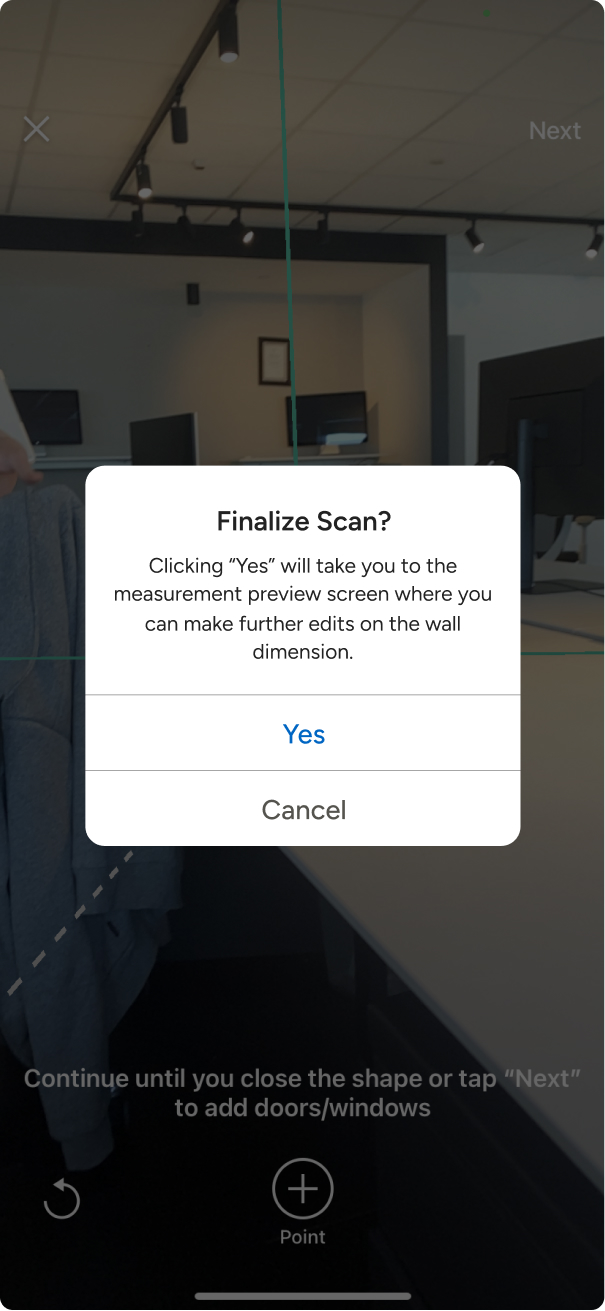
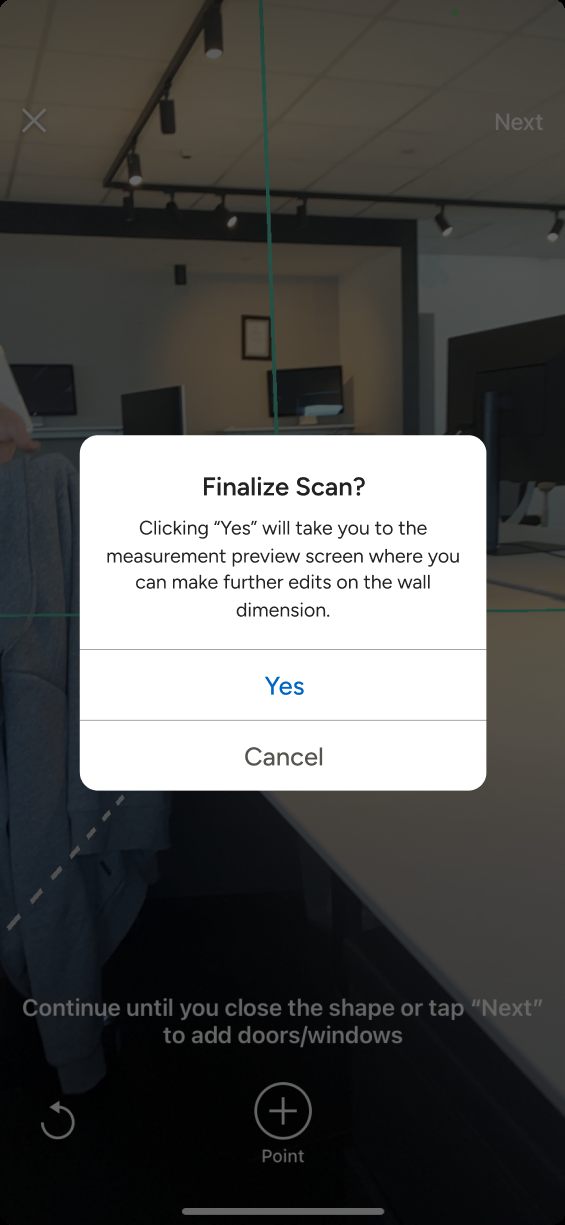
Use the Finalize Scan.png export

diff --git a/work/multi-room-mobile-scan.html b/work/multi-room-mobile-scan.html
@@ -565,7 +565,7 @@
     <p>While room placement was unreliable, our first approach used dialogs to guide every transition: finish the room, choose what came next, and save the plan. Each decision was clear, but the room-to-room flow became slow and fragmented.</p>
     <div class="mrx-dialogs">
       <figure><img src="../media/multi-room/feature-intro.png" alt="Onboarding card explaining back-to-back room scanning" width="375" height="812"><figcaption class="mrx-cap">Feature introduction</figcaption></figure>
-      <figure><img src="../media/multi-room/before-preview.png?v=3" alt="A Finalize Scan? confirmation dialog over the camera view" width="605" height="1311"><figcaption class="mrx-cap">Before previewing the scan</figcaption></figure>
+      <figure><img src="../media/multi-room/before-preview.png?v=4" alt="A Finalize Scan? confirmation dialog over the camera view" width="565" height="1225"><figcaption class="mrx-cap">Before previewing the scan</figcaption></figure>
       <figure><img src="../media/multi-room/whats-next.png" alt="A Saved and Ready to Go! dialog asking what comes next" width="375" height="812"><figcaption class="mrx-cap">What's next?</figcaption></figure>
       <figure><img src="../media/multi-room/name-room.png" alt="A form for naming the room before continuing" width="375" height="812"><figcaption class="mrx-cap">Name the room</figcaption></figure>
       <figure><img src="../media/multi-room/save-plan.png" alt="A Save Your Work screen for naming the finished floor plan" width="375" height="812"><figcaption class="mrx-cap">Save plan</figcaption></figure>
@@ -685,7 +685,7 @@
     <figure class="mrx-vs">
       <figure class="mrx-vs__before">
         <div class="mrx-vs__stack">
-          <img src="../media/multi-room/before-preview.png?v=3" alt="A Finalize Scan? dialog over the camera view" width="605" height="1311">
+          <img src="../media/multi-room/before-preview.png?v=4" alt="A Finalize Scan? dialog over the camera view" width="565" height="1225">
           <img src="../media/multi-room/whats-next.png" alt="A Saved and Ready to Go! dialog stacked behind it" width="375" height="812">
         </div>
         <figcaption class="mrx-vscap"><b>Before</b><span>Hidden behind dialogs</span></figcaption>
